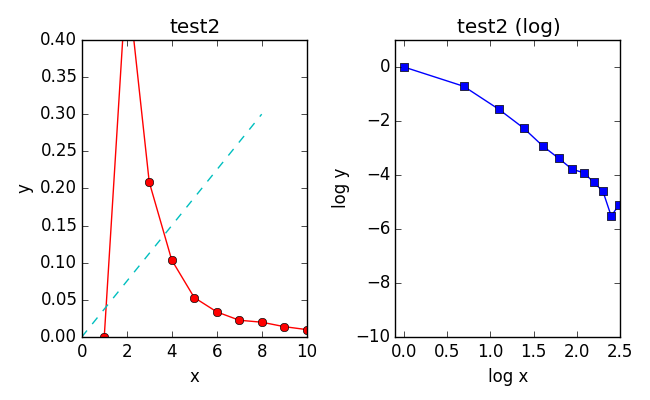
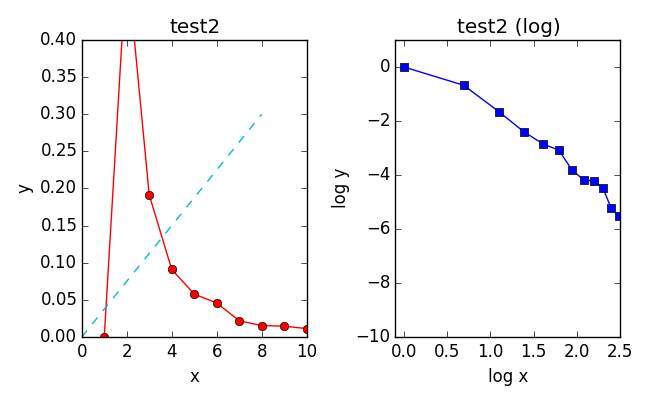
managed to get an output for the overlaid degree histograms for real this time

diff --git a/hw2.py b/hw2.py
@@ -202,9 +202,9 @@ def plot_DH_datasets(prefix,data_ls):
         logys.append(logy)
         print(len(logx),len(logy))
 
-    plt.plot(x,y,line_list[0])
+    #plt.plot(x,y,line_list[0])
 
-    #plt.plot(logxs[0],logys[0],line_list[0],logxs[1],logys[1],line_list[1],logxs[2],logys[2],line_list[2],logxs[3],logys[3],line_list[3],logxs[4],logys[4],line_list[4])
+    plt.plot(logxs[0],logys[0],line_list[0],logxs[1],logys[1],line_list[1],logxs[2],logys[2],line_list[2],logxs[3],logys[3],line_list[3],logxs[4],logys[4],line_list[4])
     
     plt.axis([0,15,0,1])
     plt.xlabel('x')
